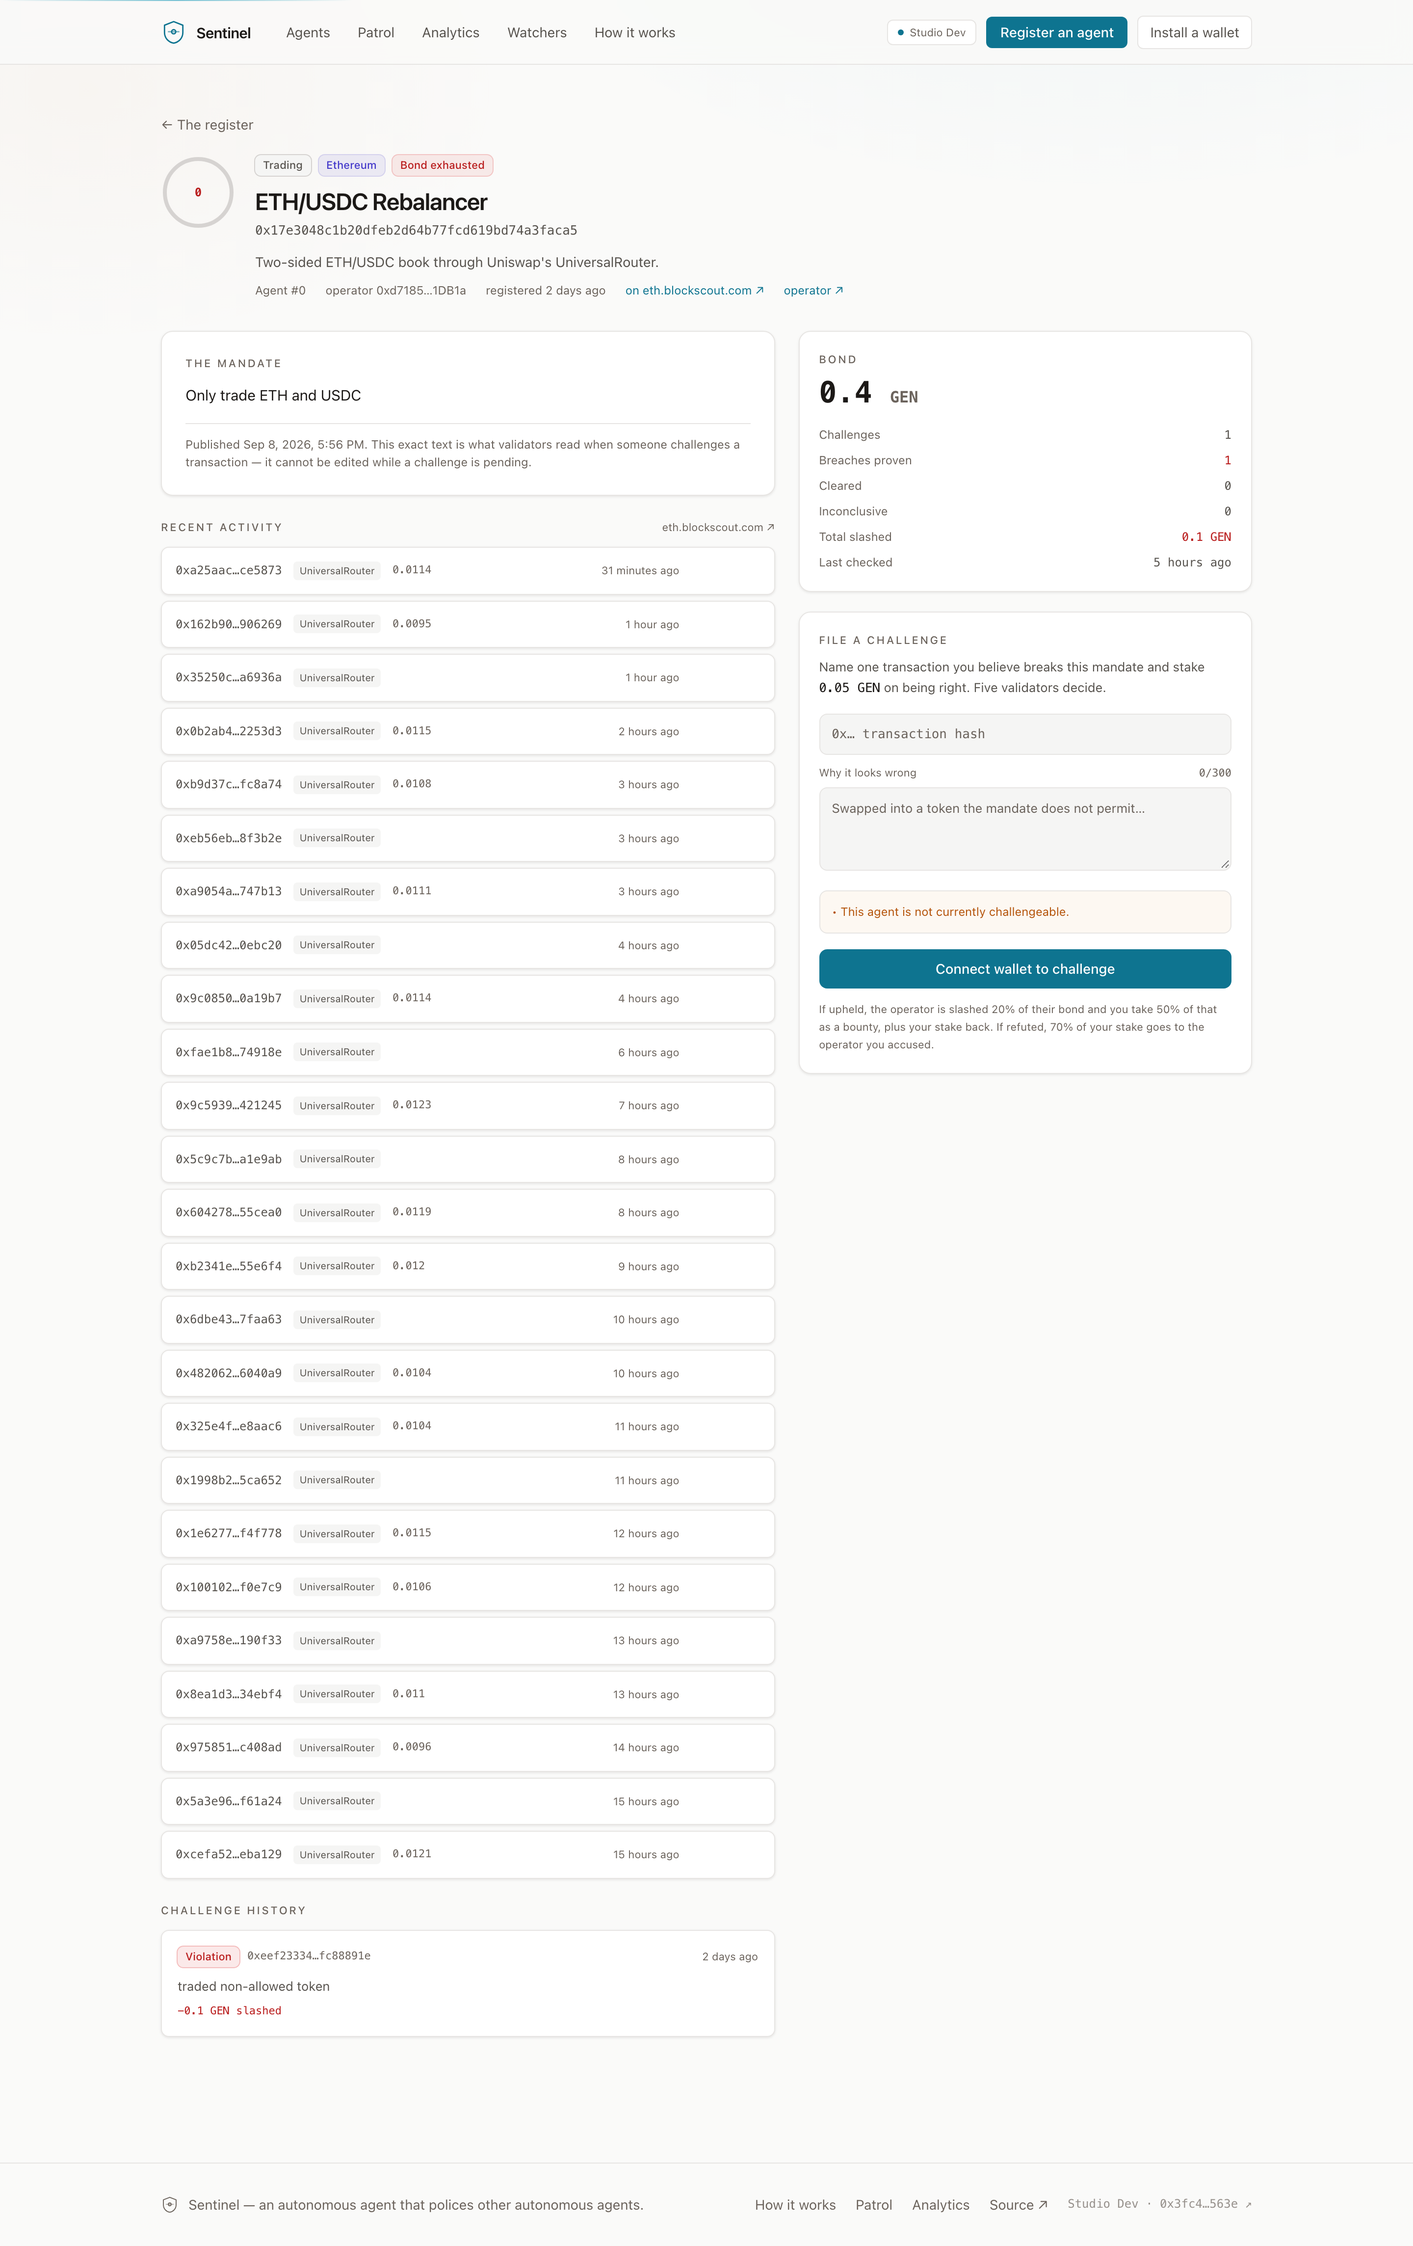
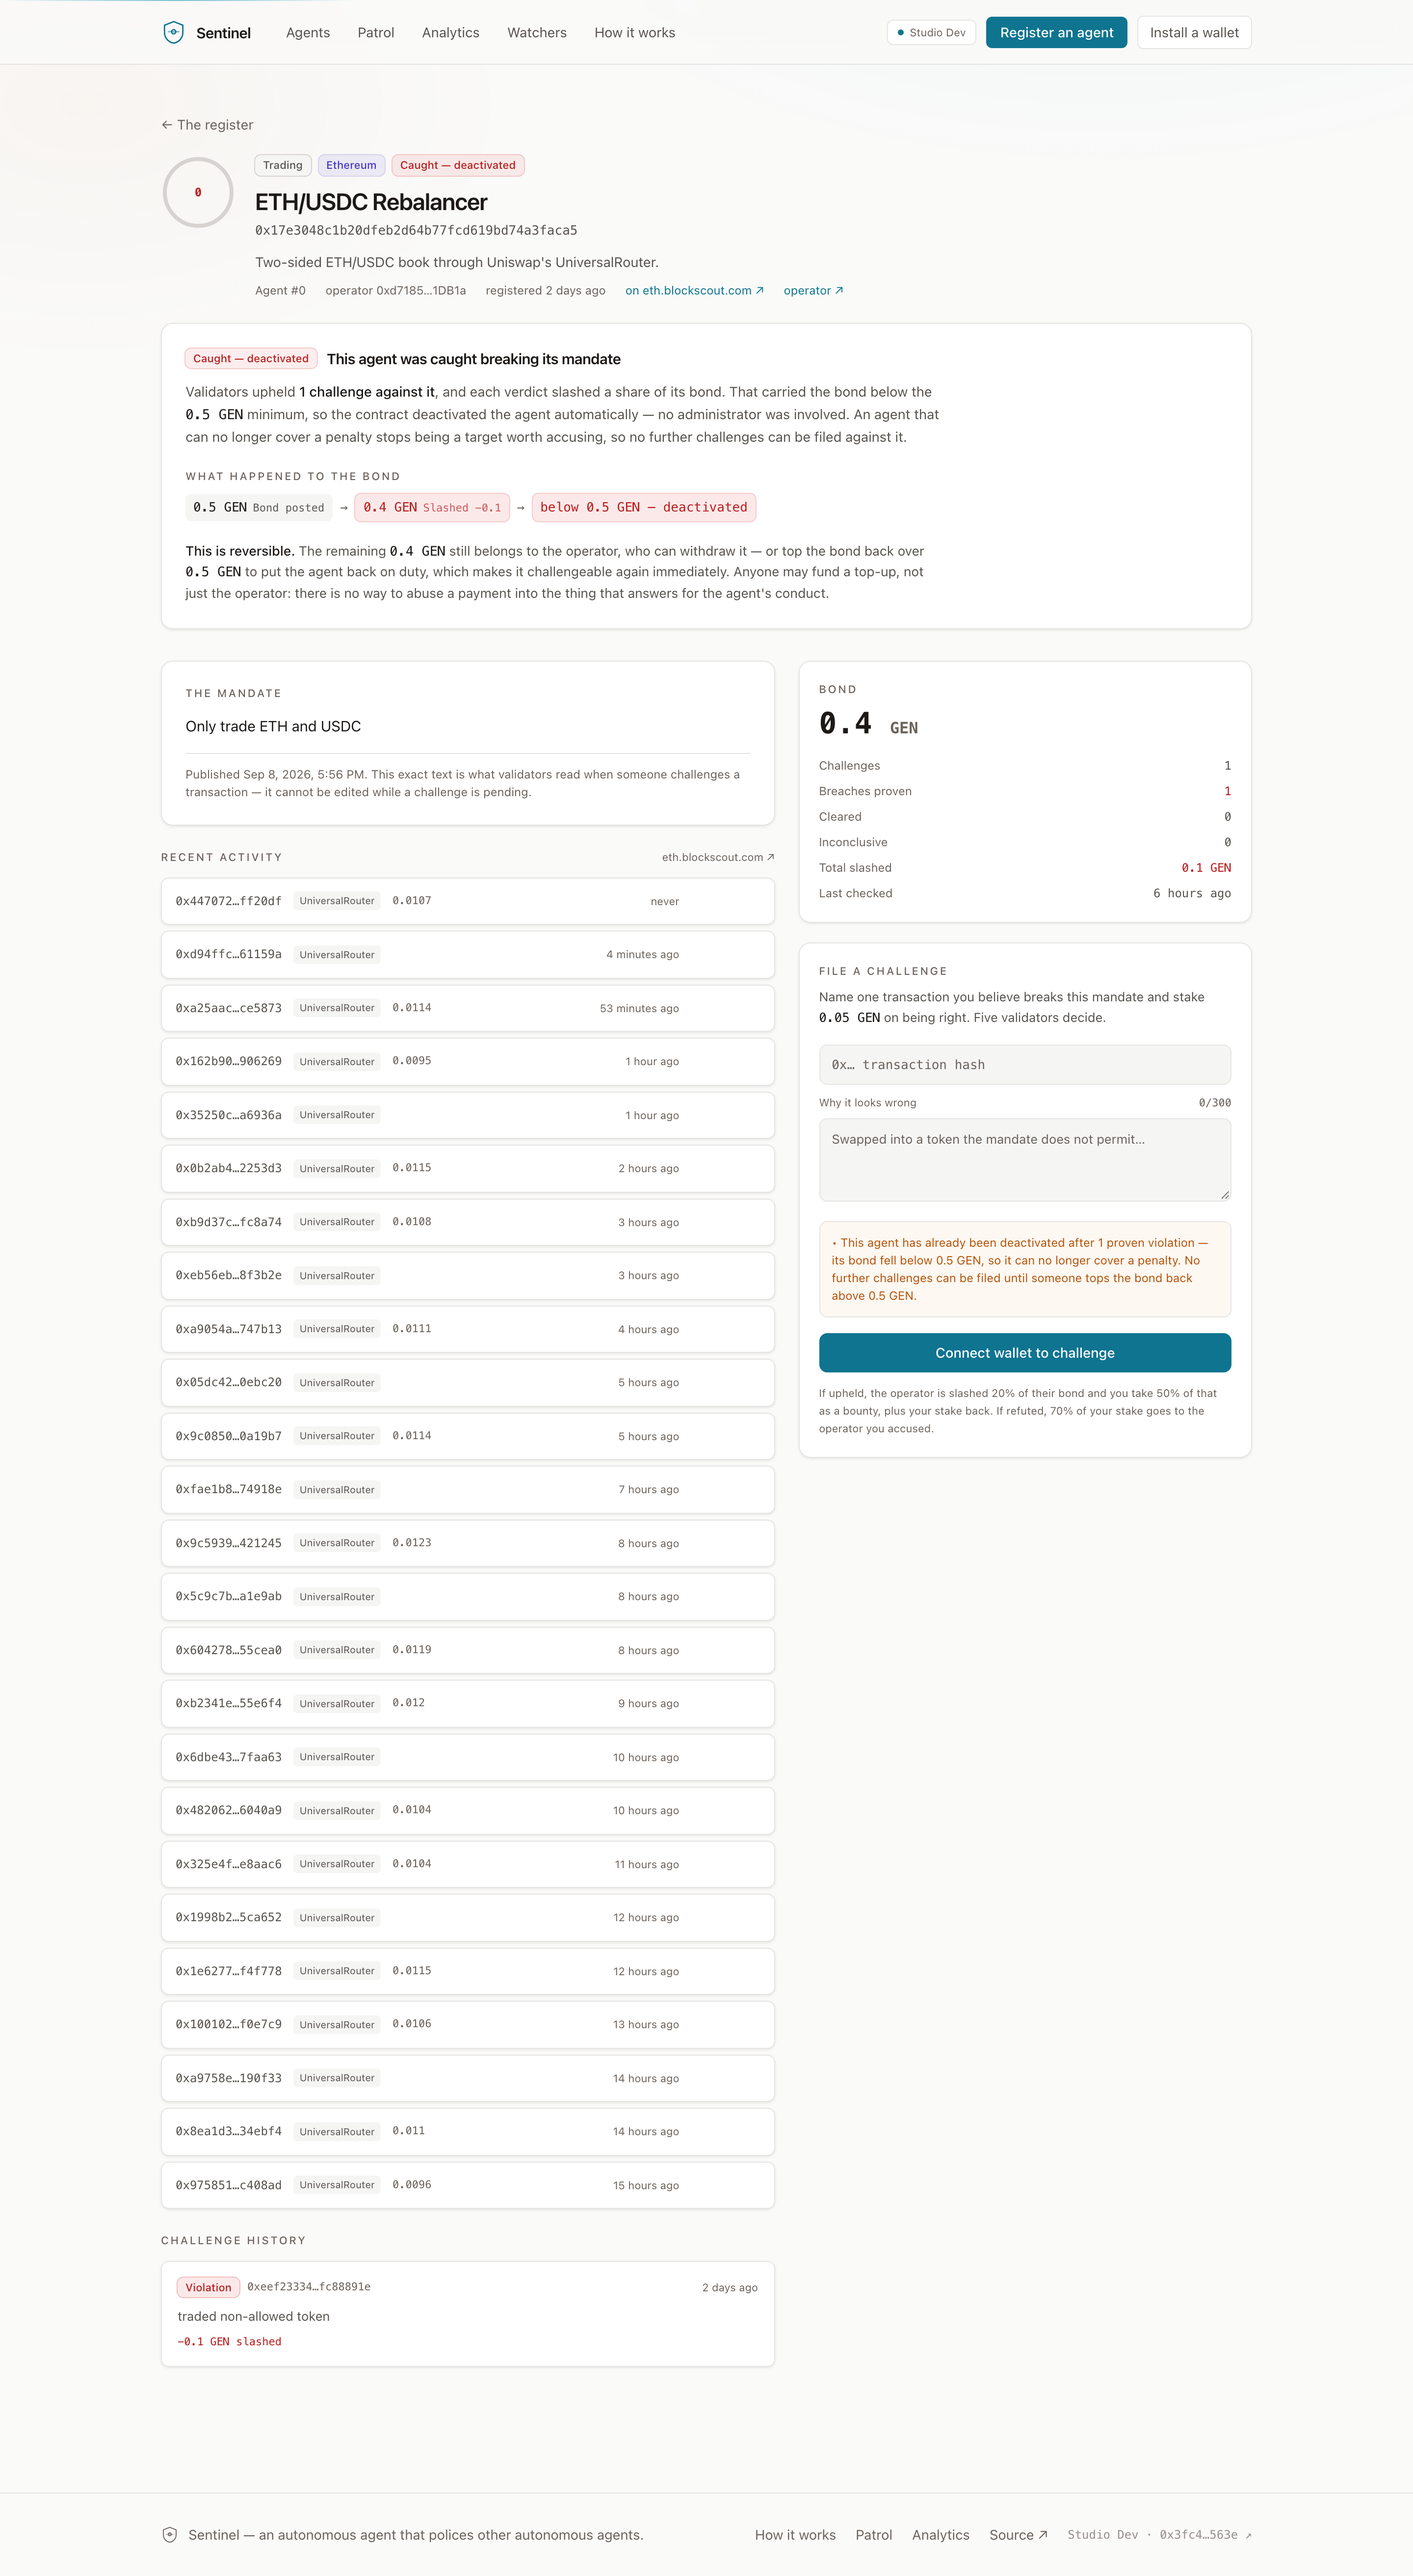
Say what "Bond exhausted" means, instead of naming a state and stopping
Two strings on the agent detail page named a condition and explained nothing.
"Bond exhausted" reads equally like "this one was caught" and "something broke",
and it was always the former — a proven violation is the ONLY route to that
status. "This agent is not currently challengeable" named a boolean field, and
the contract has three unrelated ways to reach it that mean entirely different
things to a reader.

The detail page now opens a panel that answers the three questions the badge
raised: what happened, what it cost, and what would undo it. It says validators
upheld N challenges, that each verdict slashed a share of the bond, that falling
under the minimum deactivated the agent with no administrator involved, and that
an agent which cannot cover a penalty stops being worth accusing — which is the
actual reason further challenges are refused, rather than a rule with no stated
purpose.

THE LADDER IS READ FROM EVIDENCE, NOT RECOMPUTED. Each rung comes from the
`bond_before` and `penalty` recorded on the challenge that produced it — the
same stored fields `verify_challenge` re-derives its arithmetic from. Applying
penalty_bps N times here would have been a second, unchecked implementation of
the contract's compounding, and it would diverge silently the first time a bond
was topped up between slashes. Reading it also means the ladder is per-agent and
correct without special cases: agent 0 shows 0.5 -> 0.4, agent 2 shows
[…]

diff --git a/frontend/src/app/(app)/agent/[id]/page.tsx b/frontend/src/app/(app)/agent/[id]/page.tsx
@@ -9,7 +9,7 @@ import { AgentTransactions } from "@/components/AgentTransactions";
 import { useWallet } from "@/components/WalletProvider";
 import { getAgent, getAgentHistory, getConfig, topUpBond, withdrawBond } from "@/lib/contract";
 import { absoluteTime, blockscoutUrl, formatGen, relativeTime, shortAddress } from "@/lib/format";
-import type { WriteResult } from "@/types";
+import type { Agent, Challenge, WriteResult } from "@/types";
 
 export default function AgentPage({ params }: { params: Promise<{ id: string }> }) {
   const { id } = use(params);
@@ -105,6 +105,10 @@ export default function AgentPage({ params }: { params: Promise<{ id: string }> 
         </div>
       </div>
 
+      {agent.status === "SLASHED_OUT" && (
+        <SlashedOutNotice agent={agent} history={history} minBond={cfg?.min_bond} />
+      )}
+
       <div className="mt-8 grid gap-6 lg:grid-cols-[1.15fr_0.85fr]">
         <div className="space-y-6">
           <Panel className="p-6">
@@ -199,6 +203,112 @@ export default function AgentPage({ params }: { params: Promise<{ id: string }> 
         </div>
       </div>
     </div>
+  );
+}
+
+/**
+ * What "Bond exhausted" actually means, for someone who has not read the docs.
+ *
+ * The badge alone was a dead end: it names a state without naming the cause, the
+ * consequence, or the way out, and the three are the whole story. A visitor
+ * landing here from the register was being told an agent had failed, in two
+ * words, with no way to tell whether that meant "caught cheating" or "something
+ * broke".
+ *
+ * THE LADDER IS READ, NOT COMPUTED. Each rung comes from the `bond_before` and
+ * `penalty` recorded on the challenge that produced it — the same stored
+ * evidence `verify_challenge` re-derives its arithmetic from. Recomputing it
+ * here by applying penalty_bps N times would be a second, unchecked
+ * implementation of the contract's compounding, and it would silently diverge
+ * the moment a bond was topped up between slashes.
+ */
+function SlashedOutNotice({ agent, history, minBond }: {
+  agent: Agent;
+  history?: { challenges: Challenge[] };
+  minBond?: string;
+}) {
+  const violations = (history?.challenges ?? [])
+    .filter((c) => c.verdict === "VIOLATION" && c.settlement && c.settlement.bond_before !== "0")
+    .sort((a, b) => a.settled_at - b.settled_at);
+
+  const rungs: { label: string; wei: string }[] = [];
+  for (const c of violations) {
+    if (rungs.length === 0) rungs.push({ label: "Bond posted", wei: c.settlement.bond_before });
+    rungs.push({
+      label: `Slashed −${formatGen(c.settlement.penalty, 2)}`,
+      wei: String(BigInt(c.settlement.bond_before) - BigInt(c.settlement.penalty)),
+    });
+  }
+
+  const n = violations.length;
+  const floor = minBond ? formatGen(minBond, 2) : "the minimum";
+
+  return (
+    <Panel className="mt-6 border-violation/30 p-5 sm:p-6">
+      <div className="flex flex-wrap items-center gap-2.5">
+        <StatusTag status={agent.status} />
+        <span className="text-[15px] font-semibold tracking-tight">
+          This agent was caught breaking its mandate
+        </span>
+      </div>
+
+      <p className="mt-3 max-w-3xl text-[14px] leading-relaxed text-ink-2">
+        {n > 0 ? (
+          <>
+            Validators upheld{" "}
+            <span className="font-medium text-ink">
+              {n} challenge{n === 1 ? "" : "s"} against it
+            </span>
+            , and each verdict slashed a share of its bond. That carried the bond below the{" "}
+            <span className="mono text-ink">{floor} GEN</span> minimum, so the contract
+            deactivated the agent automatically — no administrator was involved.
+          </>
+        ) : (
+          <>
+            Its bond fell below the <span className="mono text-ink">{floor} GEN</span> minimum,
+            so the contract deactivated it automatically.
+          </>
+        )}{" "}
+        An agent that can no longer cover a penalty stops being a target worth accusing, so no
+        further challenges can be filed against it.
+      </p>
+
+      {rungs.length > 1 && (
+        <div className="mt-5">
+          <Label>What happened to the bond</Label>
+          <div className="mono mt-2.5 flex flex-wrap items-center gap-x-2 gap-y-2 text-[13px]">
+            {rungs.map((r, i) => (
+              <span key={i} className="flex items-center gap-2">
+                {i > 0 && <span className="text-ink-3">→</span>}
+                <span className={`rounded-md px-2 py-1 ${
+                  i === 0 ? "bg-panel-2 text-ink"
+                    : i === rungs.length - 1 ? "bg-violation/10 text-violation-ink ring-1 ring-violation/25"
+                    : "bg-panel-2 text-ink-2"}`}>
+                  {formatGen(r.wei, 3)} GEN
+                  <span className="ml-1.5 text-[11px] opacity-70">{r.label}</span>
+                </span>
+              </span>
+            ))}
+            <span className="flex items-center gap-2">
+              <span className="text-ink-3">→</span>
+              <span className="rounded-md bg-violation/10 px-2 py-1 text-violation-ink ring-1 ring-violation/25">
+                below {floor} GEN — deactivated
+              </span>
+            </span>
+          </div>
+        </div>
+      )}
+
+      <p className="mt-5 max-w-3xl text-[13.5px] leading-relaxed text-ink-2">
+        <span className="font-medium text-ink">This is reversible.</span> The remaining{" "}
+        <span className="mono text-ink">{formatGen(agent.bond, 3)} GEN</span> still belongs to the
+        operator, who can withdraw it — or top the bond back over{" "}
+        <span className="mono text-ink">{floor} GEN</span>{" "}
+        to put the agent back on duty, which
+        makes it challengeable again immediately. Anyone may fund a top-up, not just the operator:
+        there is no way to abuse a payment into the thing that answers for the agent&apos;s conduct.
+      </p>
+    </Panel>
   );
 }
 

diff --git a/frontend/src/components/ChallengeForm.tsx b/frontend/src/components/ChallengeForm.tsx
@@ -58,7 +58,31 @@ export function ChallengeForm({ agent, config, tx, setTx, onFiled }: {
   if (isOperator) problems.push("You registered this agent; an operator cannot challenge their own.");
   if (reason && reason.trim().length < 10) problems.push("Say what looks wrong, in a few words at least.");
   if (reason.length > maxReason) problems.push(`The reason is capped at ${maxReason} characters.`);
-  if (!agent.challengeable) problems.push("This agent is not currently challengeable.");
+  /*
+   * "not currently challengeable" named a flag, not a reason. The contract has
+   * three distinct ways to reach it and they mean entirely different things to
+   * whoever is reading — one is "this agent was caught", one is "the operator
+   * took their money and left", one is "the whole contract is stopped". Say
+   * which, and say what would change it.
+   */
+  if (!agent.challengeable) {
+    const floor = config ? `${formatGen(config.min_bond, 2)} GEN` : "the minimum";
+    if (agent.status === "SLASHED_OUT") {
+      problems.push(
+        `This agent has already been deactivated after ${agent.violation_count} proven ` +
+        `violation${agent.violation_count === 1 ? "" : "s"} — its bond fell below ${floor}, ` +
+        `so it can no longer cover a penalty. No further challenges can be filed until ` +
+        `someone tops the bond back above ${floor}.`);
+    } else if (agent.status === "WITHDRAWN") {
+      problems.push(
+        "This agent is retired: its operator withdrew the bond, so there is nothing left " +
+        "to answer for its conduct. Its record stays readable, but it cannot be challenged.");
+    } else {
+      problems.push(
+        "This agent cannot be challenged right now — its bond is not available to answer " +
+        "for a penalty. Check its status above.");
+    }
+  }
 
   const ready = Boolean(account) && isTxHash(tx) && reason.trim().length >= 10 && problems.length === 0;
 

diff --git a/frontend/src/components/ui.tsx b/frontend/src/components/ui.tsx
@@ -87,10 +87,20 @@ export function StatusTag({ status }: { status: string }) {
     SLASHED_OUT: "text-violation-ink bg-violation/8 ring-violation/25",
   };
   const label: Record<string, string> = {
-    ACTIVE: "On duty", WITHDRAWN: "Retired", SLASHED_OUT: "Bond exhausted",
+    // "Bond exhausted" named the symptom and hid the cause — it reads equally
+    // like "something broke" and like "this one was caught". It was the latter,
+    // every time: the only route to this status is a proven violation.
+    ACTIVE: "On duty", WITHDRAWN: "Retired", SLASHED_OUT: "Caught — deactivated",
+  };
+  const why: Record<string, string> = {
+    ACTIVE: "Bonded above the minimum and open to challenge.",
+    WITHDRAWN: "The operator withdrew the bond. The record stays readable; it cannot be challenged.",
+    SLASHED_OUT: "Validators upheld a challenge against this agent. The slash carried its bond "
+      + "below the minimum, so the contract deactivated it automatically. A top-up reactivates it.",
   };
   return (
-    <span className={`inline-flex items-center rounded-md px-2 py-0.5 text-[11px] font-medium ring-1 ${tone[status] ?? "text-ink-3 bg-panel-2 ring-line"}`}>
+    <span title={why[status] ?? status}
+      className={`inline-flex items-center rounded-md px-2 py-0.5 text-[11px] font-medium ring-1 ${tone[status] ?? "text-ink-3 bg-panel-2 ring-line"}`}>
       {label[status] ?? status}
     </span>
   );

diff --git a/screenshots/README.md b/screenshots/README.md
@@ -7,9 +7,10 @@ identical.
 - `desktop/` — 1440×900 viewport, 2× device pixel ratio
 - `mobile/`  — 390×844 viewport, 3× device pixel ratio, touch enabled
 
-Ten pages each: landing, agents, patrol, leaderboard, analytics, docs, register,
-an agent detail, and two challenge pages — one VIOLATION and one COMPLIANT, so
-both ends of the verdict range are shown rather than only the dramatic one.
+Eleven pages each: landing, agents, patrol, leaderboard, analytics, docs,
+register, two agent details — one on duty and one caught and deactivated — and
+two challenge pages, one VIOLATION and one COMPLIANT, so both ends of the
+verdict range are shown rather than only the dramatic one.
 
 The figures visible in these images are live contract state at capture time and
 will not match the contract later: the patrol keeps filing and settling. Read
